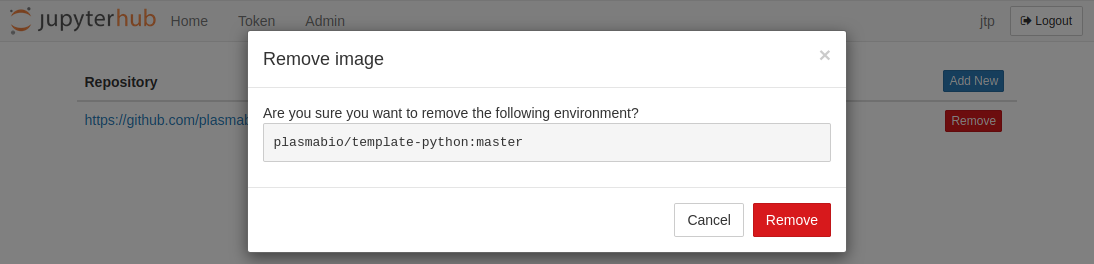
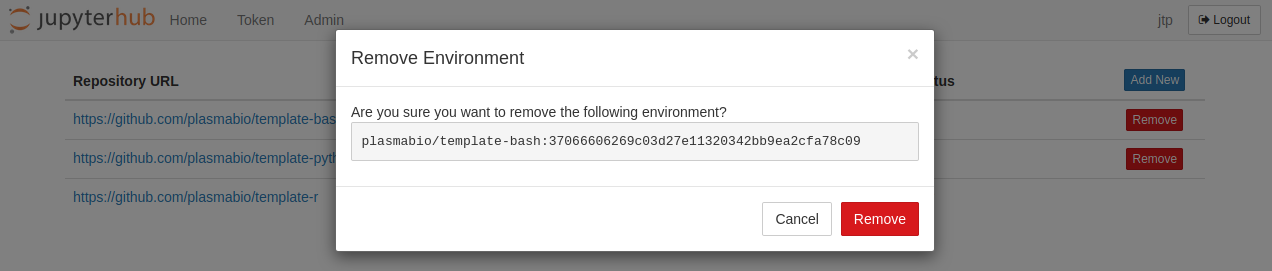
Update documentation to reflect UI changes

diff --git a/tljh-plasmabio/tljh_plasmabio/static/js/images.js b/tljh-plasmabio/tljh_plasmabio/static/js/images.js
@@ -7,7 +7,7 @@ require(["jquery", "bootstrap", "moment", "jhapi", "utils"], function(
 ) {
   "use strict";
 
-  var base_url = '/services/images';
+  var base_url = '/services/environments';
   var api = new JHAPI(base_url);
 
   function getRow(element) {

diff --git a/docs/environments/index.rst b/docs/environments/index.rst
@@ -1,12 +1,12 @@
 User Environments
 =================
 
-User environments are built as immutable Docker images. The Docker images bundle the dependencies, extensions,
-and predefined notebooks that should be available to all users.
+User environments are built as immutable `Docker images <https://docs.docker.com/engine/docker-overview>`_.
+The Docker images bundle the dependencies, extensions, and predefined notebooks that should be available to all users.
 
 PlasmaBio uses `jupyter-repo2docker <https://repo2docker.readthedocs.io>`_ to build the images on the server.
 
-Environments can be managed by admin users by clicking on ``Services -> images``:
+Environments can be managed by admin users by clicking on ``Services -> environments``:
 
 .. image:: ../images/environments/services-navbar.png
    :alt: Manage the list of environments

diff --git a/docs/environments/add.rst b/docs/environments/add.rst
@@ -6,7 +6,7 @@ Now that the repository is ready, we can add it to the JupyterHub via the user i
 To add the new user environment, click on the ``Add New`` button and provide the following information:
 
 - ``Repository URL``: the URL to the repository to build the environment from
-- ``Ref``: the git commit hash to use
+- ``Reference (git commit)``: the git commit hash to use
 
 
 As an example:

diff --git a/docs/environments/update.rst b/docs/environments/update.rst
@@ -5,5 +5,5 @@ Since the environments are built as Docker images, they are immutable.
 
 Instead of updating an environment, it is recommended to:
 
-1. Add a new one with the new ``Ref``
+1. Add a new one with the new ``Reference``
 2. Remove the previous one by clicking on the ``Remove`` button (see previous section)
